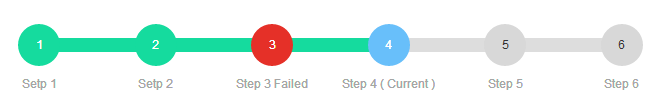
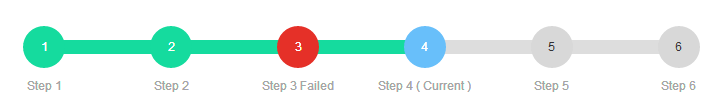
fix typo

diff --git a/index.html b/index.html
@@ -19,7 +19,7 @@
   <script type="text/javascript">
     jQuery(document).ready(function($) {
       $('#steps').progressbar({
-        steps: ['Setp 1', 'Setp 2', '~Step 3 Failed', '@Step 4 ( Current )', 'Step 5', 'Step 6']
+        steps: ['Step 1', 'Step 2', '~Step 3 Failed', '@Step 4 ( Current )', 'Step 5', 'Step 6']
       });
     });
   </script>

diff --git a/README.md b/README.md
@@ -13,7 +13,7 @@
 ```js
 jQuery(document).ready(function($) {
   $('#steps').progressbar({
-    steps: ['Setp 1', 'Setp 2', '~Step 3 Failed', '@Step 4 ( Current )', 'Step 5', 'Step 6']
+    steps: ['Step 1', 'Step 2', '~Step 3 Failed', '@Step 4 ( Current )', 'Step 5', 'Step 6']
   });
 });
 ```
